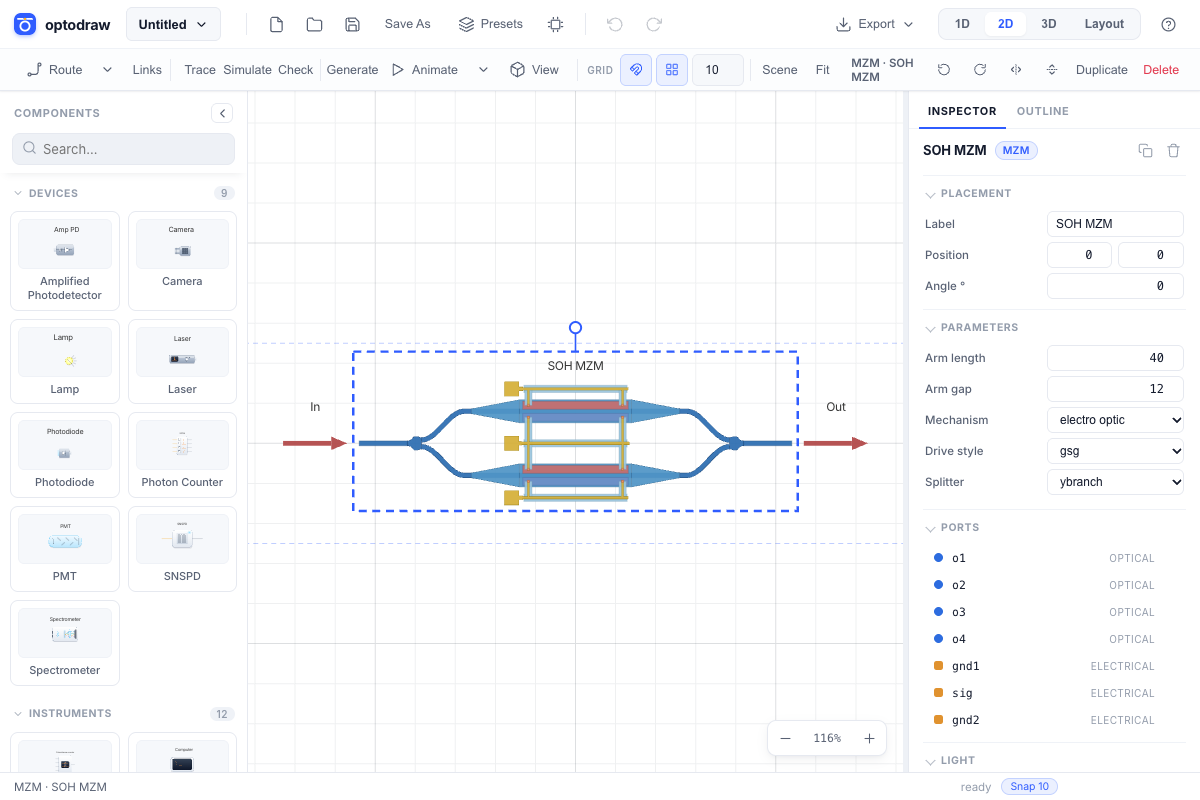
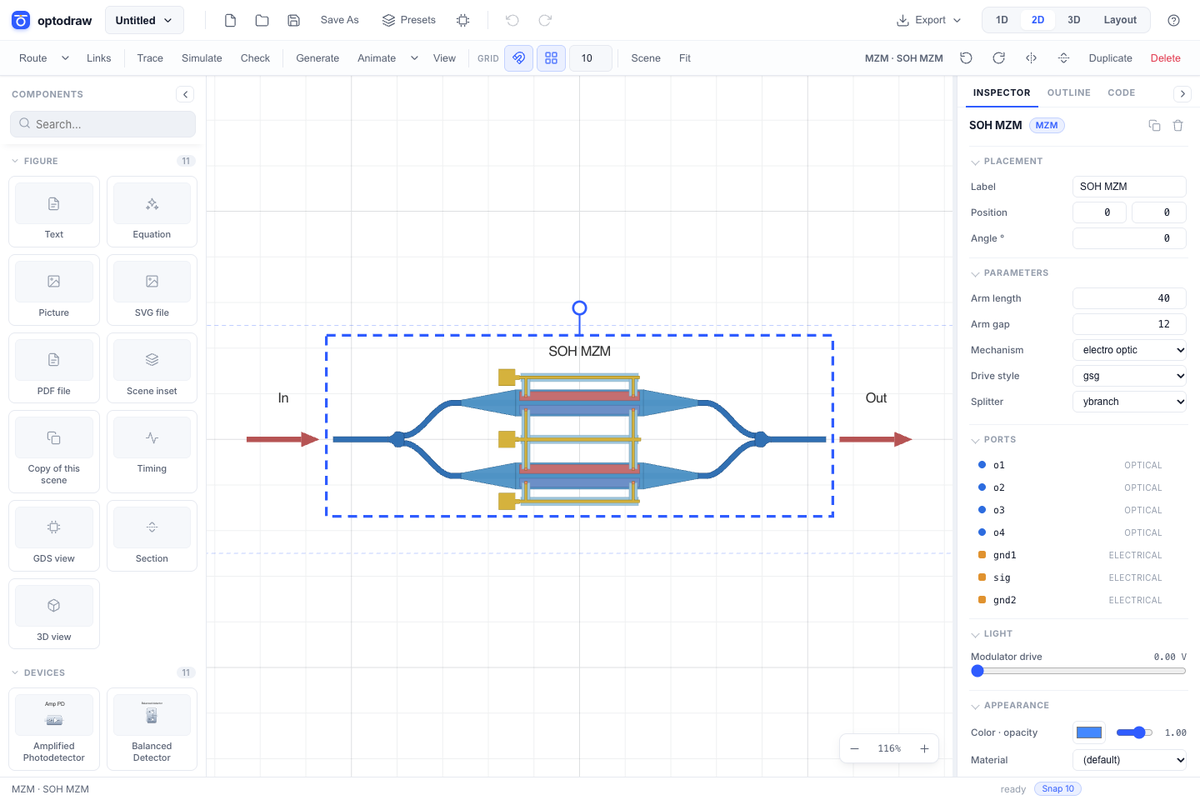
README images: the editor at 1440 x 960 so the whole toolbar shows; current light GIF

diff --git a/scripts/make_media.py b/scripts/make_media.py
@@ -35,7 +35,7 @@ ROOT = Path(__file__).resolve().parents[1]
 CELLS = ROOT / "docs" / "examples"
 OUT = ROOT / "docs" / "public" / "media"
 WIDTH = 1400                         # PNG width in pixels
-EDITOR = (1200, 800)                 # the editor's window, in pixels
+EDITOR = (1440, 960)                 # the editor's window, in pixels: the whole toolbar fits; tile() scales it to TILE
 TILE = (1200, 800)                   # every gallery image: the same size, so the README's columns are equal
 GIF = (720, 480, 12, 3.0)            # the light GIF: width, height, frames per second, seconds
 
